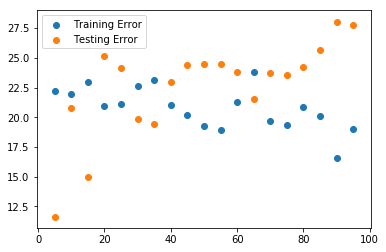
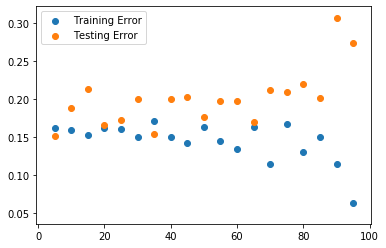
fix readme curriculum

diff --git a/README.md b/README.md
@@ -3,7 +3,7 @@
 
 ## Introduction
 
-In this lab, you'll be able to validate your Boston Housing data model using train-test split.
+In this lab, you'll be able to validate your Ames Housing data model using train-test split.
 
 
 ## Objectives
@@ -13,9 +13,9 @@ You will be able to:
 - Compare training and testing errors to determine if model is over or underfitting
 
 
-## Let's use our Boston Housing Data again!
+## Let's use our Ames Housing Data again!
 
-This time, let's only include the variables that were previously selected using recursive feature elimination. We included the code to preprocess below.
+We included the code to preprocess below.
 
 
 ```python
@@ -23,27 +23,37 @@ import pandas as pd
 import numpy as np
 import matplotlib.pyplot as plt
 %matplotlib inline
-from sklearn.datasets import load_boston
 
-boston = load_boston()
+ames = pd.read_csv('ames.csv')
 
-boston_features = pd.DataFrame(boston.data, columns = boston.feature_names)
-b = boston_features['B']
-logdis = np.log(boston_features['DIS'])
-loglstat = np.log(boston_features['LSTAT'])
+continuous = ['LotArea', '1stFlrSF', 'GrLivArea', 'SalePrice']
+categoricals = ['BldgType', 'KitchenQual', 'SaleType', 'MSZoning', 'Street', 'Neighborhood']
 
-# Min-Max scaling
-boston_features['B'] = (b-min(b))/(max(b)-min(b))
-boston_features['DIS'] = (logdis-min(logdis))/(max(logdis)-min(logdis))
+ames_cont = ames[continuous]
 
-# Standardization
-boston_features['LSTAT'] = (loglstat-np.mean(loglstat))/np.sqrt(np.var(loglstat))
+# log features
+log_names = [f'{column}_log' for column in ames_cont.columns]
+
+ames_log = np.log(ames_cont)
+ames_log.columns = log_names
+
+# normalize (subract mean and divide by std)
+
+def normalize(feature):
+    return (feature - feature.mean()) / feature.std()
+
+ames_log_norm = ames_log.apply(normalize)
+
+# one hot encode categoricals
+ames_ohe = pd.get_dummies(ames[categoricals], prefix=categoricals, drop_first=True)
+
+preprocessed = pd.concat([ames_log_norm, ames_ohe], axis=1)
 ```
 
 
 ```python
-X = boston_features[['CHAS', 'RM', 'DIS', 'B', 'LSTAT']]
-y = pd.DataFrame(boston.target, columns = ['target'])
+X = preprocessed.drop('SalePrice_log', axis=1)
+y = preprocessed['SalePrice_log']
 ```
 
 
@@ -53,28 +63,38 @@ import pandas as pd
 import numpy as np
 import matplotlib.pyplot as plt
 %matplotlib inline
-from sklearn.datasets import load_boston
 
-boston = load_boston()
+ames = pd.read_csv('ames.csv')
 
-boston_features = pd.DataFrame(boston.data, columns = boston.feature_names)
-b = boston_features['B']
-logdis = np.log(boston_features['DIS'])
-loglstat = np.log(boston_features['LSTAT'])
+continuous = ['LotArea', '1stFlrSF', 'GrLivArea', 'SalePrice']
+categoricals = ['BldgType', 'KitchenQual', 'SaleType', 'MSZoning', 'Street', 'Neighborhood']
 
-# Min-Max scaling
-boston_features['B'] = (b-min(b))/(max(b)-min(b))
-boston_features['DIS'] = (logdis-min(logdis))/(max(logdis)-min(logdis))
+ames_cont = ames[continuous]
 
-# Standardization
-boston_features['LSTAT'] = (loglstat-np.mean(loglstat))/np.sqrt(np.var(loglstat))
+# log features
+log_names = [f'{column}_log' for column in ames_cont.columns]
+
+ames_log = np.log(ames_cont)
+ames_log.columns = log_names
+
+# normalize (subract mean and divide by std)
+
+def normalize(feature):
+    return (feature - feature.mean()) / feature.std()
+
+ames_log_norm = ames_log.apply(normalize)
+
+# one hot encode categoricals
+ames_ohe = pd.get_dummies(ames[categoricals], prefix=categoricals, drop_first=True)
+
+preprocessed = pd.concat([ames_log_norm, ames_ohe], axis=1)
 ```
 
 
 ```python
 # __SOLUTION__ 
-X = boston_features[['CHAS', 'RM', 'DIS', 'B', 'LSTAT']]
-y = pd.DataFrame(boston.target, columns = ['target'])
+X = preprocessed.drop('SalePrice_log', axis=1)
+y = preprocessed['SalePrice_log']
 ```
 
 ### Perform a train-test split
@@ -82,7 +102,6 @@ y = pd.DataFrame(boston.target, columns = ['target'])
 
 ```python
 # Split the data into training and test sets. Use the default split size
-
 ```
 
 
@@ -104,20 +123,20 @@ X_train, X_test, y_train, y_test = train_test_split(X, y)
 print(len(X_train), len(X_test), len(y_train), len(y_test))
 ```
 
-    379 127 379 127
+    1095 365 1095 365
 
 
 ### Apply your model to the train set
 
 
 ```python
-# Importing and initialize the linear regression model class
-
+# Import and initialize the linear regression model class
 ```
 
 
 ```python
 # __SOLUTION__ 
+# Import and initialize the linear regression model class
 from sklearn.linear_model import LinearRegression
 linreg = LinearRegression()
 ```
@@ -125,19 +144,19 @@ linreg = LinearRegression()
 
 ```python
 # Fit the model to train data
-
 ```
 
 
 ```python
 # __SOLUTION__ 
+# Fit the model to train data
 linreg.fit(X_train, y_train)
 ```
 
 
 
 
-    LinearRegression(copy_X=True, fit_intercept=True, n_jobs=1, normalize=False)
+    LinearRegression(copy_X=True, fit_intercept=True, n_jobs=None, normalize=False)
 
 
 
@@ -146,7 +165,6 @@ linreg.fit(X_train, y_train)
 
 ```python
 # Calculate predictions on training and test sets
-
 ```
 
 
@@ -190,20 +208,24 @@ A good way to compare overall performance is to compare the mean squarred error 
 
 ```python
 # __SOLUTION__ 
+# Import mean_squared_error from sklearn.metrics
+
 from sklearn.metrics import mean_squared_error
 ```
 
 
 ```python
 # __SOLUTION__ 
+# Calculate training and test MSE
+
 train_mse = mean_squared_error(y_train, y_hat_train)
 test_mse = mean_squared_error(y_test, y_hat_test)
 print('Train Mean Squarred Error:', train_mse)
 print('Test Mean Squarred Error:', test_mse)
 ```
 
-    Train Mean Squarred Error: 21.620204537961026
-    Test Mean Squarred Error: 22.547316698156916
+    Train Mean Squarred Error: 0.16048852081383122
+    Test Mean Squarred Error: 0.17608437252990491
 
 
 If your test error is substantially worse than the train error, this is a sign that the model doesn't generalize well to future cases.
@@ -216,25 +238,14 @@ Iterate over a range of train-test split sizes from .5 to .95. For each of these
 
 
 ```python
-
+# Your code here
 ```
-
-
-
-
-    <matplotlib.legend.Legend at 0x1a24d6cef0>
-
-
-
-
-![png](index_files/index_30_1.png)
-
 
 
 ```python
 # __SOLUTION__ 
 import random
-random.seed(11)
+random.seed(110)
 
 train_err = []
 test_err = []
@@ -254,7 +265,7 @@ plt.legend()
 
 
 
-    <matplotlib.legend.Legend at 0x1a24d6cef0>
+    <matplotlib.legend.Legend at 0x1a19109390>
 
 
 
@@ -264,36 +275,25 @@ plt.legend()
 
 # Evaluate the effect of train-test split size: Extension
 
-Repeat the previous example, but for each train-test split size, generate 100 iterations of models/errors and save the average train/test error. This will help account for any particularly good/bad models that might have resulted from poor/good splits in the data. 
+Repeat the previous example, but for each train-test split size, generate 10 iterations of models/errors and save the average train/test error. This will help account for any particularly good/bad models that might have resulted from poor/good splits in the data. 
 
 
 ```python
-
+# Your code here
 ```
-
-
-
-
-    <matplotlib.legend.Legend at 0x1a26e93438>
-
-
-
-
-![png](index_files/index_33_1.png)
-
 
 
 ```python
 # __SOLUTION__ 
-random.seed(8)
+random.seed(900)
 
 train_err = []
 test_err = []
-t_sizes = list(range(5,100,5))
+t_sizes = range(5,100,5)
 for t_size in t_sizes:
     temp_train_err = []
     temp_test_err = []
-    for i in range(100):
+    for i in range(10):
         X_train, X_test, y_train, y_test = train_test_split(X, y, test_size=t_size/100)
         linreg.fit(X_train, y_train)
         y_hat_train = linreg.predict(X_train)
@@ -310,7 +310,7 @@ plt.legend()
 
 
 
-    <matplotlib.legend.Legend at 0x1a26e93438>
+    <matplotlib.legend.Legend at 0x1a1b21dd68>
 
 
 
